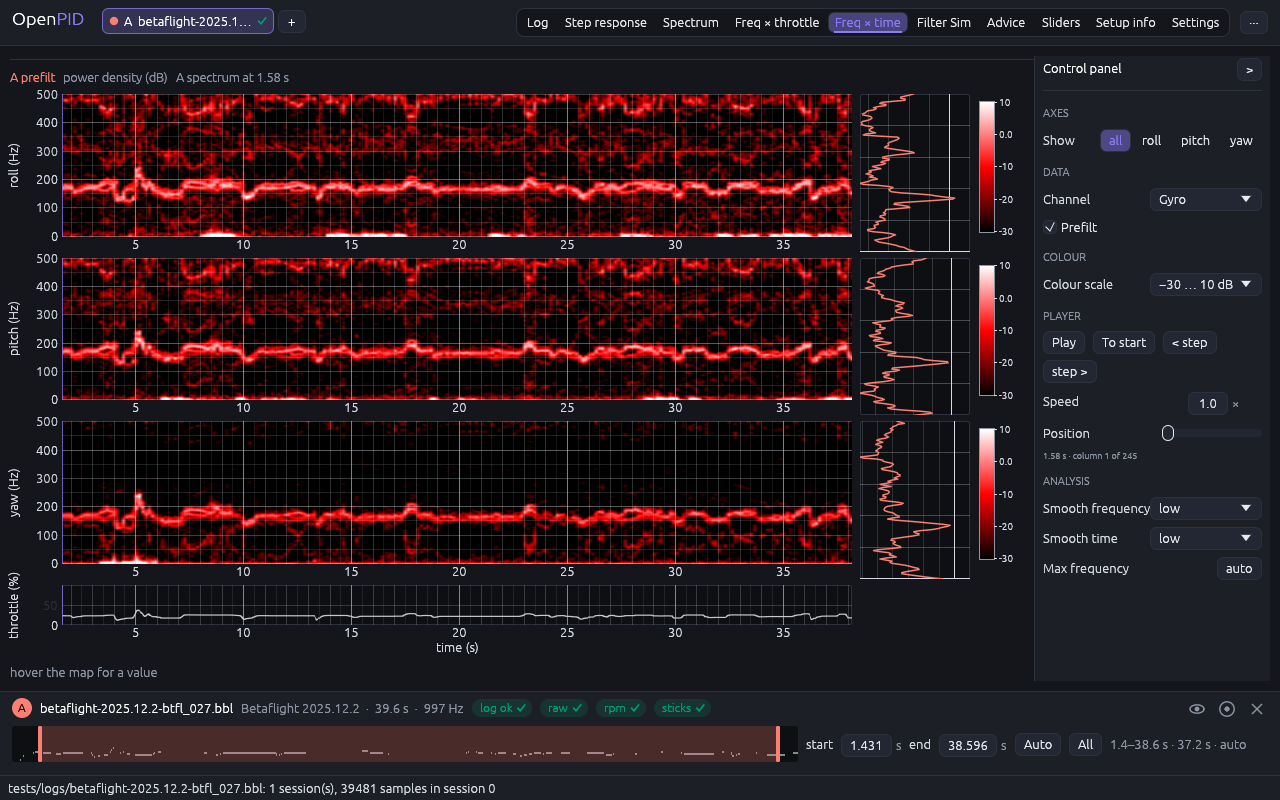
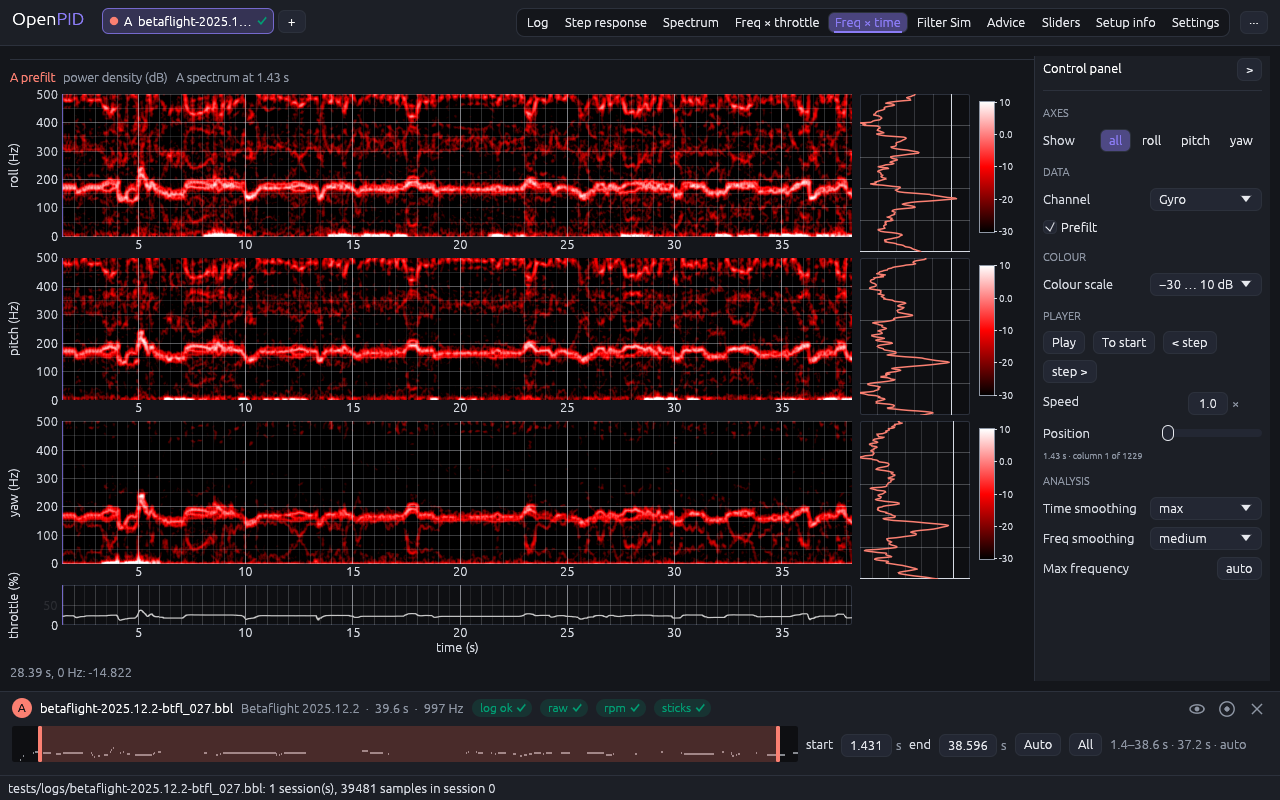
docs(time): the map against time follows the web edition 1.0
DESIGN §6.5 states the web edition's rule (padding, the two lists, the
first columns, the moving average, the floor) and what it was seen on;
the user guide and the time tab's design note say what changed with
decision D-015. The screenshot shows the tab with the new map.

Part of #174

Claude-Session: https://claude.ai/code/session_01RZdhNYUUBFBWTKFmkkfBUM

diff --git a/docs/DESIGN.md b/docs/DESIGN.md
@@ -356,27 +356,28 @@ As the PTB `PTthrSpec`, without the MATLAB artifacts:
 
 ### 6.5 Freq × time heatmap (STFT)
 
-The map of frequency against time is computed **as the reference tool computes its own, with one stated exception** (decision D-006 of the calibration, the owner, 2026-11-14; #174): the segments, the spectrum of a segment, the two lists of levels, the smoothing along the frequency and the colour scale. The rule was found from the reference tool's behaviour (version 0.94) on synthetic logs of known content, never from its code. `StftAnalysis` (`crates/openpid-analysis/src/stft.rs`) implements it; the tests in `crates/openpid-analysis/tests/time_map.rs` state each step on signals made in the test.
+The map of frequency against time is computed **as the web edition 1.0 of the reference tool computes its own** (decision D-006 of the calibration, the owner, 2026-11-14, and decision D-015, 2026-11-27: OpenPID follows the web edition 1.0; #174): the segments, their padding, the spectrum of a segment, the two lists of levels, which segment each column holds, the smoothing along the frequency and the colour scale. The rule was found from the web edition's outputs on synthetic logs of known content, never from its code. `StftAnalysis` (`crates/openpid-analysis/src/stft.rs`) implements it; the tests in `crates/openpid-analysis/tests/time_map.rs` state each step on signals made in the test.
 
 For a channel `x` over the `N` samples of the analysis window at the log rate `fs` (invalid samples interpolated between their neighbours):
 
-1. **Segment**: `L = round(0.3·fs)` samples.
-2. **Distance between segments**, the list "Smooth time" ("smooth time axis" of the reference tool): off → `hop = L`; low → `L/2` (the default); medium → `L/5`; high → `L/10`, that is 0.3, 0.15, 0.06 and 0.03 s, rounded to a whole sample and at least 1. Nothing is averaged along the time: a column is one segment, and a higher level only puts more, overlapping, segments on the axis.
-3. **Where the segments lie**: column `m` has its centre at sample `hop·m` from the start of the window and takes the `L` samples around it, `[hop·m − L/2, hop·m − L/2 + L)` (`L/2` rounded down). The columns are those with `hop·m − L/2 ≥ 0` and `m ≤ floor((N − 1 − L) / hop)`: the last one ends half a segment or more before the window does (the reference tool stops there too). The time of a column is the time of its centre, `hop·m / fs` after the start of the window. A window with no such column is refused ("not enough data").
-4. **A cell before the smoothing**: the segment times the symmetric Hann window `w[i] = 0.5 − 0.5·cos(2π·i / (L − 1))`, an FFT, and for bin `k` the power `P = 2·|X[k]|² / (L·fs)`; the bin of 0 Hz has no factor 2 (`|X[0]|² / (L·fs)`), the last bin, `L/2`, has it. The cell is `10·log10(P)`; a bin that is exactly 0 is held at 10⁻³⁰ before the logarithm (−300 dB). The rows are the bins `0 … L/2`, `fs/L` Hz apart. The mean is not removed and the window is not compensated for.
-5. **Smoothing along the frequency**, the list "Smooth frequency" ("smooth freq axis" of the reference tool), of the decibels of each column, over all rows `0 … L/2` and before any row is left out: off → none; low → a span of 5 rows (the default); medium → 11; high → 21. Row `i` reads the `span` nearest rows, `i − h … i + h` with `h = span/2` (rounded down), shifted so that they stay inside the rows (all rows when there are fewer than `span`). Row `j` weighs `(1 − (d/d_max)³)³`, where `d = |j − i|` and `d_max` is the largest `d` among the rows read; a straight line is fitted to the decibels by weighted least squares, and the smoothed value is that line at `i`. Away from the two ends of the axis the rows lie evenly around `i` and this is a weighted mean (span 5: the weights 0.2863, 0.4274, 0.2863 on the rows `i − 1`, `i`, `i + 1`, the outer two of the five weighing nothing; span 11: 0.0201, 0.0832, 0.1417, 0.1686, 0.1728 and back); at the ends the rows lie to one side and the line is not level.
-6. **Colour scale**: −30 … 10 dB.
-7. **Rows shown**: all of them, to half the log rate.
+1. **Segment**: `L = round(0.3·fs)` samples (600 at 2 kHz), zero-padded to the next power of two, `nfft` (1 024 at 2 kHz, 512 at 1 kHz, 2 048 at 4 kHz).
+2. **Distance between segments**, the list "Time smoothing", factor `F`: low → 1, medium → 2, high → 5, max → 10 (the default); `hop = L/F`, rounded to a whole sample and at least 1, that is 0.3, 0.15, 0.06 and 0.03 s. Nothing is averaged along the time: a column is one segment, and a higher level only puts more, overlapping, segments on the axis.
+3. **The columns**: `k = 0 … floor((N − L) / hop)`; column `k` stands at sample `k·hop` of the window, its time `k·hop / fs` after the start of the window. **The first `F` columns hold the segment that starts at their sample, `[k·hop, k·hop + L)`; every later column the segment centred at it, `[k·hop − L/2, k·hop − L/2 + L)`** (`L/2` rounded down). So at "max" the columns 0 … 9 start 0, 0.03, … 0.27 s into the window, column 10 holds the segment centred at 0.3 s (it starts at 0.15 s), and the segments of the columns 5 … 9 come again in the columns 10 … 14. This is the web edition's rule at every level; OpenPID used to draw every column centred (D-006 = A) and follows the web edition now (D-015). The last segment ends inside the window. A window shorter than one segment is refused ("not enough data").
+4. **A cell before the smoothing**: the segment times the symmetric Hann window `w[i] = 0.5 − 0.5·cos(2π·i / (L − 1))`, the zeros after it, an FFT of `nfft` points, and for bin `k` the power `P = 2·|X[k]|² / (L·fs)`; the bin of 0 Hz and the last bin, `nfft/2` (half the rate), have no factor 2. The cell is `10·log10(P)`; a bin that is exactly 0 is held at 10⁻³⁰ before the logarithm. The rows are the bins `0 … nfft/2`, `fs/nfft` Hz apart (513 rows, 1.953125 Hz, at 2 kHz). The mean is not removed and the window is not compensated for.
+5. **Smoothing along the frequency**, the list "Freq smoothing", factor `F`: low → 2, medium → 5 (the default), high → 10, max → 20; a centred moving average of the decibels of each column over `2·floor(F/2) + 1` rows (3, 5, 11, 21), over all rows and before any row is left out. At the two ends of the axis the mean is over the rows that exist (row 0 at "medium" is the mean of the rows 0, 1 and 2).
+6. **Floor**: a cell below −120 dB after the smoothing is drawn at −120 dB, as the web edition draws a channel that is all zero (an I term of 0, for example). The cells of a flight lie far above it.
+7. **Colour scale**: −30 … 10 dB.
+8. **Rows shown**: all of them, to half the log rate.
 
-The result (`StftOutput`) is `Grid2D { x: time of the middle of each segment, y: frequency, z: decibels }` with the segment length and the distance in samples (`nperseg`, `hop`) and the two levels. The parameters are the channel, the two levels (`smooth_freq`, `smooth_time`) and `max_hz`, which leaves out the rows above it after the smoothing (none by default). A project saved before this rule carries a segment length, a hop and a window; they are ignored on loading. The CLI is `openpid run stft` with `--smooth-freq` and `--smooth-time`.
+The result (`StftOutput`) is `Grid2D { x: time of each column, y: frequency, z: decibels }` with the segment length, the transform length and the distance in samples (`nperseg`, `nfft`, `hop`) and the two levels. The parameters are the channel, the two levels (`smooth_freq`, `smooth_time`) and `max_hz`, which leaves out the rows above it after the smoothing (none by default). A project saved before this rule carries a segment length, a hop and a window; they are ignored on loading, and the two lists come up at their defaults. The CLI is `openpid run stft` with `--smooth-freq` and `--smooth-time` (`low`, `medium`, `high`, `max`).
 
-**The exception (not copied).** The reference tool draws a few of its leading columns out of place (with "low": its second column twice). OpenPID does not copy that: every column is at the middle of its segment, as step 3 says.
+**The channels.** The tab's list (§6.7) maps to the web edition's signals where OpenPID has the same quantity: the gyro (`gyroADC`, with the unfiltered gyro `gyroUnfilt` as "Prefilt"), the D term (`axisD`), the P term (`axisP`), the setpoint, the PID error (setpoint − filtered gyro) and the PID sum (P + I + D + F). The web edition's "D term raw" has no counterpart here and is not added. A channel that is not in the log (no yaw D term) is reported as missing; the web edition draws it at its floor.
 
-**What a cell is.** A power density per Hz in decibels of the channel's unit squared, not an amplitude: a tone of amplitude `A` on a bin reads `20·log10(A) + 10·log10(L / (8·fs)) = 20·log10(A) − 14.26` dB on its bin and 6.02 dB less on the two bins beside it, and after "low" `20·log10(A) − 17.71` dB. White noise reads 4.26 dB below its density `σ² / (fs/2)` in the mean power of a cell, the window not being compensated for, and the mean of the decibels is another 2.51 dB lower. The cells compare maps computed the same way; for a level in the channel's unit use the spectrum of §6.3.
+**What a cell is.** A power density per Hz in decibels of the channel's unit squared, not an amplitude: a tone of amplitude `A` on a bin reads `20·log10(A) + 10·log10((L − 1)² / (8·L·fs)) = 20·log10(A) − 14.27` dB on its bin at 2 kHz. The padding puts 1.7 bins on a bin of the segment, so the bins beside it read only 1.96 dB less (8.51 dB two bins away), and after the default "medium" (five rows) the tone reads `20·log10(A) − 18.46` dB. White noise reads 4.26 dB below its density `σ² / (fs/2)` in the mean power of a cell, the window not being compensated for, and the mean of the decibels is another 2.51 dB lower. The cells compare maps computed the same way; for a level in the channel's unit use the spectrum of §6.3.
 
 **What the tab adds** (the Freq × time tab, `time_tab.rs`), none of which changes a number of the map: the spectrum at the player's position beside each row and the throttle under the rows (§6.7); an automatic colour scale (the 30th and the 99.5th percentile of the decibels above 20 Hz) or two typed ends as a choice beside the fixed scale; "Max frequency". The map is in decibels by definition, so the tab has no linear colour (the reference tool has none either); the switch between decibels and a linear colour that the tab had before D-006 is removed. A map with more columns than a texture can be wide is drawn with several columns in a pixel, each pixel in the colour of the largest of its cells. The map is also the source of the "Dynamic spectrum player" (phase 2): the player walks the columns.
 
-**What the rule was seen on, and what is not known.** In the reference tool the rule was seen at 1, 2, 4 and 8 kHz and on stretches of 14.5 to 82 s; the distance between segments is that of the list at every length (unlike its map of frequency against throttle, §6.4, which changes the distance with the length of the stretch). A log of 8 s gave no map at all in the reference tool; OpenPID draws whatever columns fit. The stretch itself is OpenPID's analysis window, as for every analysis; the reference tool leaves out the first and the last second of a log (§6.7).
+**What the rule was seen on, and what is not known.** The web edition's numbers were read directly from its plots (rounds W1 and W2 of the calibration): its map of a log of 47 s at 2 kHz at every level of both lists, its defaults on logs of 10, 11, 23 and 61 s, and every channel of a log of 24 s; OpenPID's map is the web edition's in every cell to the 0.0005 dB to which the web edition's numbers were rounded. Only logs at 2 kHz were read for this map: at other rates OpenPID keeps `L = round(0.3·fs)`, as version 0.94 did at 1, 2, 4 and 8 kHz, and pads it to the next power of two. The web edition draws the map of a stretch of 8 s; OpenPID draws the map of any stretch that holds a segment (decision D-014). The stretch itself is OpenPID's analysis window, as for every analysis; with the window at 1 … T − 1 s it is the web edition's, the samples `fs … fs·(T − 1)` with both ends included.
 
 ### 6.6 Filters and overlays (phase 2)
 
@@ -411,7 +412,7 @@ What the reference tool shows by default, from the owner's PIDtoolbox Pro v0.9 s
 | Freq × throttle | Colour map | MATLAB "hot" (black, red, yellow, white) | Blackbox Explorer's black, red, white; a colour-blind safe option | the owner's choice (docs/design/plot-colours) |
 | Freq × throttle | Colour limit | not recorded | automatic, one scale per log | two logs of different noise each keep their contrast |
 | Freq × time | Layout and channel | roll, pitch, yaw spectrograms of the unfiltered gyro, a power density in dB; no linear colour | the same; the spectrum at the position and the throttle are added | what the noise did when, without leaving the tab |
-| Freq × time | The map itself | segments of 0.3 s, "smooth freq axis" and "smooth time axis" at "low"; a few leading columns drawn out of place | the same rule and the same two lists (§6.5); every column at the middle of its segment | decision D-006 (the owner, 2026-11-14); a column out of place is not copied |
+| Freq × time | The map itself | web edition 1.0: segments of 0.3 s zero-padded to a power of two, "Time smoothing" at "Max" (0.03 s apart), "Freq smoothing" at "Medium" (a mean of 5 rows); the first columns hold the segment that starts at their time | the same rule and the same two lists (§6.5), the first columns included | decisions D-006 (the owner, 2026-11-14) and D-015 (2026-11-27: the web edition 1.0) |
 | Freq × time | Colour range | Z min −30, Z max 10 dB | the same, fixed; automatic (the 30th and 99.5th percentile of the dB values above 20 Hz) or two typed ends as a choice | a fixed scale reads alike on every log; the automatic one keeps the contrast of a quiet log |
 | Freq × time | Frequency axis | to half the log rate | the same; "Max frequency" lowers the top | the noise of interest is often below 500 Hz |
 | Log viewer | Rows | roll, pitch, yaw at ± 500 °/s, throttle and motors in a row of their own | the same; "Y scale ±" in the panel | same |

diff --git a/docs/USER-GUIDE.md b/docs/USER-GUIDE.md
@@ -273,16 +273,19 @@ the throttle did. It shows how the noise changes over the flight (motor
 spin-up, propwash, resonances during certain manoeuvres). Manual markers from
 the Spectrum tab show here too.
 
-The map is computed as the reference tool computes its own (DESIGN §6.5). A
-column is the spectrum of 0.3 s of the log, and a cell is a **power density
-per Hz in decibels**, smoothed along the frequency; it is not an amplitude. A
-steady tone of amplitude `A` (in the channel's unit) reads about
-`20·log10(A) − 17.7` dB with the default smoothing, so a line of 10 deg/s is
-at about 2 dB and one of 1 deg/s at about −18 dB. The colours run from
-−30 dB (black) to 10 dB (brightest), the same on every log. There is no
-linear colour: the map is in decibels by definition. One thing is not copied
-from the reference tool: it draws a few of its first columns out of place,
-and here every column is at the middle of its 0.3 s.
+The map is computed as the web edition 1.0 of the reference tool computes
+its own (DESIGN §6.5; decisions D-006 and D-015). A column is the spectrum
+of 0.3 s of the log, zero-padded to a power of two (513 rows at 2 kHz), and
+a cell is a **power density per Hz in decibels**, averaged along the
+frequency; it is not an amplitude. At 2 kHz a steady tone of amplitude `A`
+(in the channel's unit) reads about `20·log10(A) − 18.5` dB with the default
+smoothing, so a line of 10 deg/s is at about 1.5 dB and one of 1 deg/s at
+about −18.5 dB. The colours run from −30 dB (black) to 10 dB (brightest), the
+same on every log. There is no linear colour: the map is in decibels by
+definition. As in the web edition, the first few columns (ten at "max") show
+the 0.3 s that *start* at their time, the later ones the 0.3 s around it, so
+the very start of the map sits up to 0.15 s early. A short window still gets
+a map, as long as it holds 0.3 s.
 
 ![Freq × time](screenshots/time.png)
 
@@ -300,14 +303,15 @@ The control panel on the right (hover any field for its explanation):
   finger drag in touch mode) scrub. The position is the Log viewer cursor: a
   cursor placed there moves the player and the player moves the cursor, so
   the epoch can be set from the place where the spectrum "lights up".
-- **Smooth frequency** (off, low, medium, high; low by default): how many
-  rows a cell is smoothed over along the frequency, none, 5, 11 or 21.
-  Higher reads calmer; it also lowers and widens a narrow line (a tone on
-  one row reads 3.4 dB lower at "low" than at "off").
-- **Smooth time** (off, low, medium, high; low by default): how close the
-  columns are, 0.3, 0.15, 0.06 or 0.03 s apart. Every column is still the
-  spectrum of 0.3 s; nothing is averaged along the time, a higher level only
-  draws more, overlapping, columns (and takes longer to compute).
+- **Time smoothing** (low, medium, high, max; max by default): how close
+  the columns are, 0.3, 0.15, 0.06 or 0.03 s apart. Every column is still
+  the spectrum of 0.3 s; nothing is averaged along the time, a higher level
+  only draws more, overlapping, columns (and takes longer to compute).
+- **Freq smoothing** (low, medium, high, max; medium by default): how many
+  rows a cell is averaged over along the frequency, 3, 5, 11 or 21 (fewer at
+  the bottom and the top of the axis). Higher reads calmer; it also lowers
+  and widens a narrow line (at 2 kHz a tone reads 1.3 dB below its bin at
+  "low" and 4.2 dB below it at "medium").
 - **Max frequency**: auto (half the logging rate) or a lower top of the
   frequency axis.
 
@@ -537,7 +541,7 @@ with a new log.
 | Step response | `openpid run step <log> --axis pitch --epoch 2..12` (`--json` carries `verdicts` against the project's targets, or the defaults) |
 | Spectrum | `openpid run psd <log> --channel gyro.raw.roll` |
 | Freq × throttle | `openpid run thr-heatmap <log> [--png out.png]` |
-| Freq × time | `openpid run stft <log> --channel motor.0 [--smooth-freq off\|low\|med\|high] [--smooth-time …] [--png out.png]` |
+| Freq × time | `openpid run stft <log> --channel motor.0 [--smooth-freq low\|medium\|high\|max] [--smooth-time …] [--png out.png]` |
 | Filter Sim | `openpid run filter-sim <log> --set lpf1_hz=100,lpf1_type=1` |
 | Motor noise (no tab) | `openpid run motor-noise <log>` |
 | Motor speed without eRPM | `openpid run rpm <log>` |

diff --git a/docs/design/time-tab/README.md b/docs/design/time-tab/README.md
@@ -122,3 +122,34 @@ Tests: `time_tab_stacks_the_axes_in_db_with_the_throttle_under_them`,
 `time_tab_max_frequency_lowers_the_top_of_the_maps`,
 `a_map_wider_than_a_texture_is_drawn_by_the_largest_cell_of_a_group`, and the
 earlier ones adapted. The pictures above show the tab before this revision.
+
+## Revision: the web edition 1.0 (2026-11-27, decision D-015)
+
+The owner decided that OpenPID follows the web edition 1.0 of the reference
+tool (D-015 = A). Its map was found exactly from its outputs (DESIGN §6.5).
+What that changed on this tab:
+
+- **The map**: every segment of 0.3 s is zero-padded to the next power of
+  two (513 rows at 2 kHz instead of 301), and the 0 Hz and half-rate bins
+  are both counted once.
+- **Time smoothing** (was "Smooth time"): low, medium, high, max, the
+  segments 0.3, 0.15, 0.06 or 0.03 s apart; **max** by default (it was
+  0.15 s).
+- **Freq smoothing** (was "Smooth frequency"): low, medium, high, max, a
+  moving average of the decibels over 3, 5, 11 or 21 rows, cut at the two
+  ends of the axis (it was a line fitted through 5, 11 or 21 rows, or none);
+  **medium** by default.
+- **The first columns**: as in the web edition, the first columns (as many
+  as the time factor: one at "low", ten at "max") show the segment that
+  starts at their time, the later ones the segment centred at it. Under
+  D-006 OpenPID drew every column centred; that exception is gone.
+- **A short window** still gets a map as soon as it holds one segment
+  (D-014).
+- Kept as they were: the rows, the channels, the colour scale and its
+  choices, the spectrum beside each row, the throttle strip, the player, the
+  exports.
+
+Tests: `time_tab_stacks_the_axes_in_db_with_the_throttle_under_them`,
+`time_tab_lists_set_the_two_levels_of_the_map`,
+`time_tab_says_when_the_window_is_too_short_for_a_segment`, adapted. The
+pictures above show the tab before this revision.
